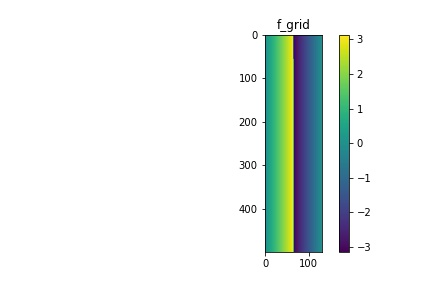
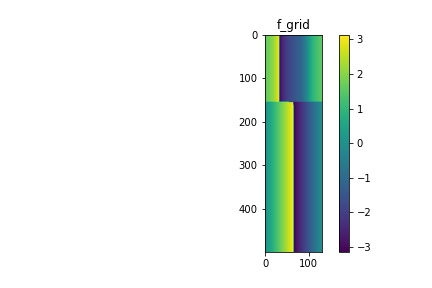
warp: working on switching r and phi coordinates in rt grid. not working yet

Changed region(s): [[0.6019, 0.0938, 0.7523, 0.375]]

diff --git a/Warp/disk_ecc_warp.py b/Warp/disk_ecc_warp.py
@@ -695,9 +695,9 @@ class Disk:
         '''now to make 3d grid:'''
 
         '''saving these because I think I can use them in rt grid'''
-        self.x_rt_grid = rotation[:,:,0]
-        self.y_rt_grid = rotation[:,:,1]
-        self.z_rt_grid = rotation[:,:,2]
+        self.x_rt_grid = rotation[:,:,0].transpose()
+        self.y_rt_grid = rotation[:,:,1].transpose()
+        self.z_rt_grid = rotation[:,:,2].transpose()
 
         '''keeping z grid, adding each point in zf to each slice
         this doesn't perfectly replicate geoemetry of warp: 
@@ -708,14 +708,13 @@ class Disk:
 
         '''trying to do whole z grid here. May run into problem interpolating onto negative
         z values for rho0 and vel'''
-        z_grid = rotation[:,:,2]
         zf = np.linspace(-self.zmax, self.zmax, self.nz)
 
-        z_full_rt_grid = z_grid[:,:,np.newaxis] + zf
         '''translating x &y grids back to polar coordinates'''
 
         x_full_rt_grid = self.x_rt_grid[:,:,np.newaxis]*np.ones(self.nz)
         y_full_rt_grid = self.y_rt_grid[:,:,np.newaxis]*np.ones(self.nz)
+        z_full_rt_grid = self.z_rt_grid[:,:,np.newaxis] + zf
 
         plt.pcolor(self.x_rt_grid, self.y_rt_grid, z_full_rt_grid[:,:,0])
         plt.title("first z slice (rt grid)")
@@ -818,9 +817,12 @@ class Disk:
         plt.title("sky grid 2 y by z")
         plt.show()
 
+        plt.pcolor(x_full_rt_grid[:,:,-1], tdiskY[:,:,-1], tdiskZ[:,:,-1])
+        plt.title("sky grid 3 x by y")
+        plt.xlim(-5e15, 5e15)
+        plt.ylim(-5e15, 5e15)
 
         plt.pcolor(x_full_rt_grid[:,:,0], tdiskY[:,:,0], tdiskZ[:,:,0])
-        plt.title("sky grid 3 x by y")
         plt.colorbar()
         plt.show()
 
@@ -842,14 +844,8 @@ class Disk:
         #if self.thet > np.arctan(self.Aout/self.zmax):
         #    tdiskZ -=(Y*self.sinthet).repeat(self.nz).reshape(self.nphi,self.nr,self.nz)
         #tdiskY = ytop - self.sinthet*S + (Y/self.costhet).repeat(self.nz).reshape(self.nphi,self.nr,self.nz)
-        tr = np.sqrt(X.repeat(self.nz).reshape(self.nr,self.nphi,self.nz)**2+tdiskY**2)
-        tphi = np.arctan2(tdiskY,X.repeat(self.nz).reshape(self.nr,self.nphi,self.nz))%(2*np.pi)
-
-        plt.pcolor(X, Y, tdiskZ[:,:,0])
-        plt.title("tdiskZ")
-        plt.colorbar()
-        plt.savefig("tdiskZ.jpg")
-        plt.show()
+        tr = np.sqrt(X.repeat(self.nz).reshape(self.nphi,self.nr,self.nz)**2+tdiskY**2)
+        tphi = np.arctan2(tdiskY,X.repeat(self.nz).reshape(self.nphi,self.nr,self.nz))%(2*np.pi)
 
         plt.imshow(tdiskZ[:,:,0])
         plt.title("tdiskZ")
@@ -897,10 +893,10 @@ class Disk:
 
         #print("index interp {t}".format(t=time.clock()-tst))
         ###### fixed T,Omg,rhoG still need to work on zpht ######
-        tT = ndimage.map_coordinates(self.tempg,[[aind],[phiind],[zind]],order=1,cval=1e-18).reshape(self.nr,self.nphi,self.nz) #interpolate onto coordinates xind,yind #tempg
+        tT = ndimage.map_coordinates(self.tempg,[[aind],[phiind],[zind]],order=1,cval=1e-18).reshape(self.nphi,self.nr,self.nz) #interpolate onto coordinates xind,yind #tempg
         #Omgx = ndimage.map_coordinates(self.Omg0[0],[[aind],[phiind],[zind]],order=1,cval=1e-18).reshape(self.nphi,self.nr,self.nz) #Omgs
         #Omg = ndimage.map_coordinates(self.Omg0,[[aind],[phiind],[zind]],order=1,cval=1e-18).reshape(self.nphi,self.nr,self.nz) #Omgy
-        tvel = ndimage.map_coordinates(self.vel,[[aind],[phiind],[zind]],order=1).reshape(self.nr,self.nphi,self.nz)
+        tvel = ndimage.map_coordinates(self.vel,[[aind],[phiind],[zind]],order=1).reshape(self.nphi,self.nr,self.nz)
 
         plt.imshow(tvel[:,:,0])
         plt.title("tvel")
@@ -912,10 +908,10 @@ class Disk:
         #trhoG = Disk.H2tog*self.Xmol/Disk.m0*ndimage.map_coordinates(self.rho0,[[aind],[phiind],[zind]],order=1,cval=1e-18).reshape(self.nphi,self.nr,self.nz)
         #trhoH2 = trhoG/self.Xmol #** not on cluster**
         #zpht = np.interp(tr.flatten(),self.rf,self.zpht).reshape(self.nphi,self.nr,self.nz) #tr,rf,zpht
-        tsig_col = ndimage.map_coordinates(self.sig_col,[[aind],[phiind],[zind]],order=1,cval=1e-18).reshape(self.nr,self.nphi,self.nz)
+        tsig_col = ndimage.map_coordinates(self.sig_col,[[aind],[phiind],[zind]],order=1,cval=1e-18).reshape(self.nphi,self.nr,self.nz)
 
-        zpht_up = ndimage.map_coordinates(self.zpht_up,[[aind],[phiind]],order=1).reshape(self.nr,self.nphi,self.nz) #tr,rf,zpht
-        zpht_low = ndimage.map_coordinates(self.zpht_low,[[aind],[phiind]],order=1).reshape(self.nr,self.nphi,self.nz) #tr,rf,zpht
+        zpht_up = ndimage.map_coordinates(self.zpht_up,[[aind],[phiind]],order=1).reshape(self.nphi,self.nr,self.nz) #tr,rf,zpht
+        zpht_low = ndimage.map_coordinates(self.zpht_low,[[aind],[phiind]],order=1).reshape(self.nphi,self.nr,self.nz) #tr,rf,zpht
         tT[notdisk] = 0
         self.sig_col = tsig_col
 
